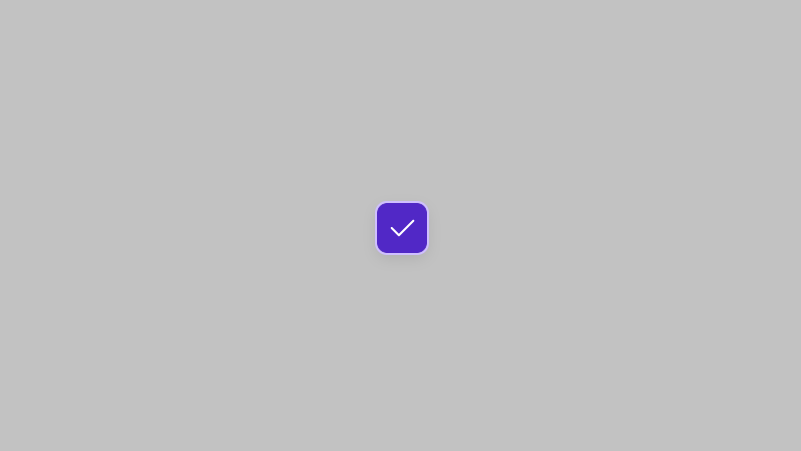
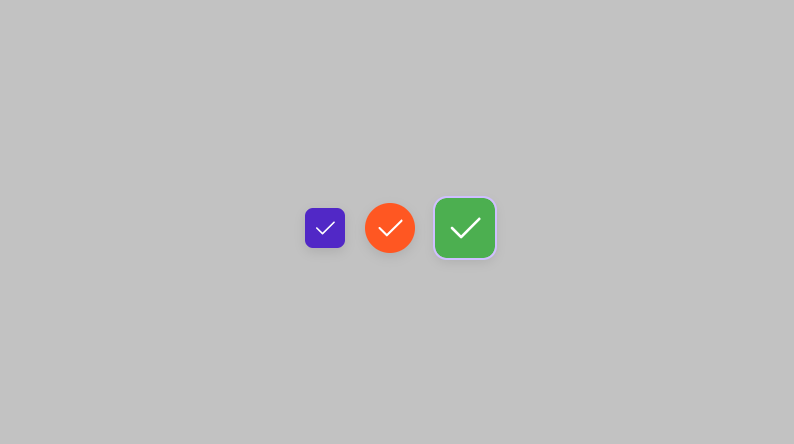
check and toggle done

Changed region(s): [[0.3627, 0.4392, 0.6348, 0.5856]]

diff --git a/24_Toggle-Switch/README.md b/24_Toggle-Switch/README.md
@@ -1,0 +1,6 @@
+# Toggle Button
+
+`A simple Toggle Button using custom Label `
+
+### Preview
+![preview](./images/image.png)`

diff --git a/23_Checkbox/README.md b/23_Checkbox/README.md
@@ -1,0 +1,6 @@
+# Check Box
+
+`A simple Check Box using custom Label `
+
+### Preview
+![preview](./images/image.png)`
